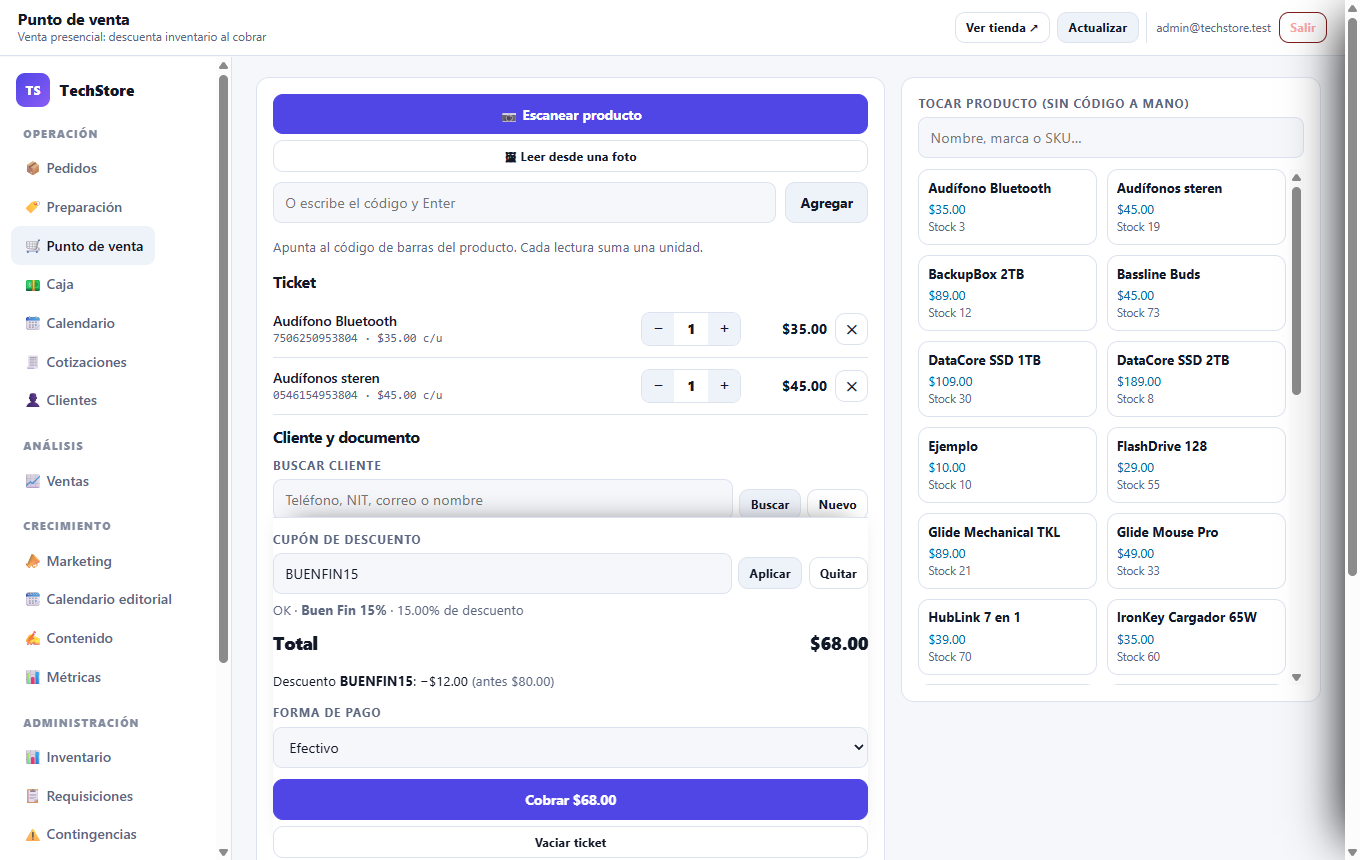
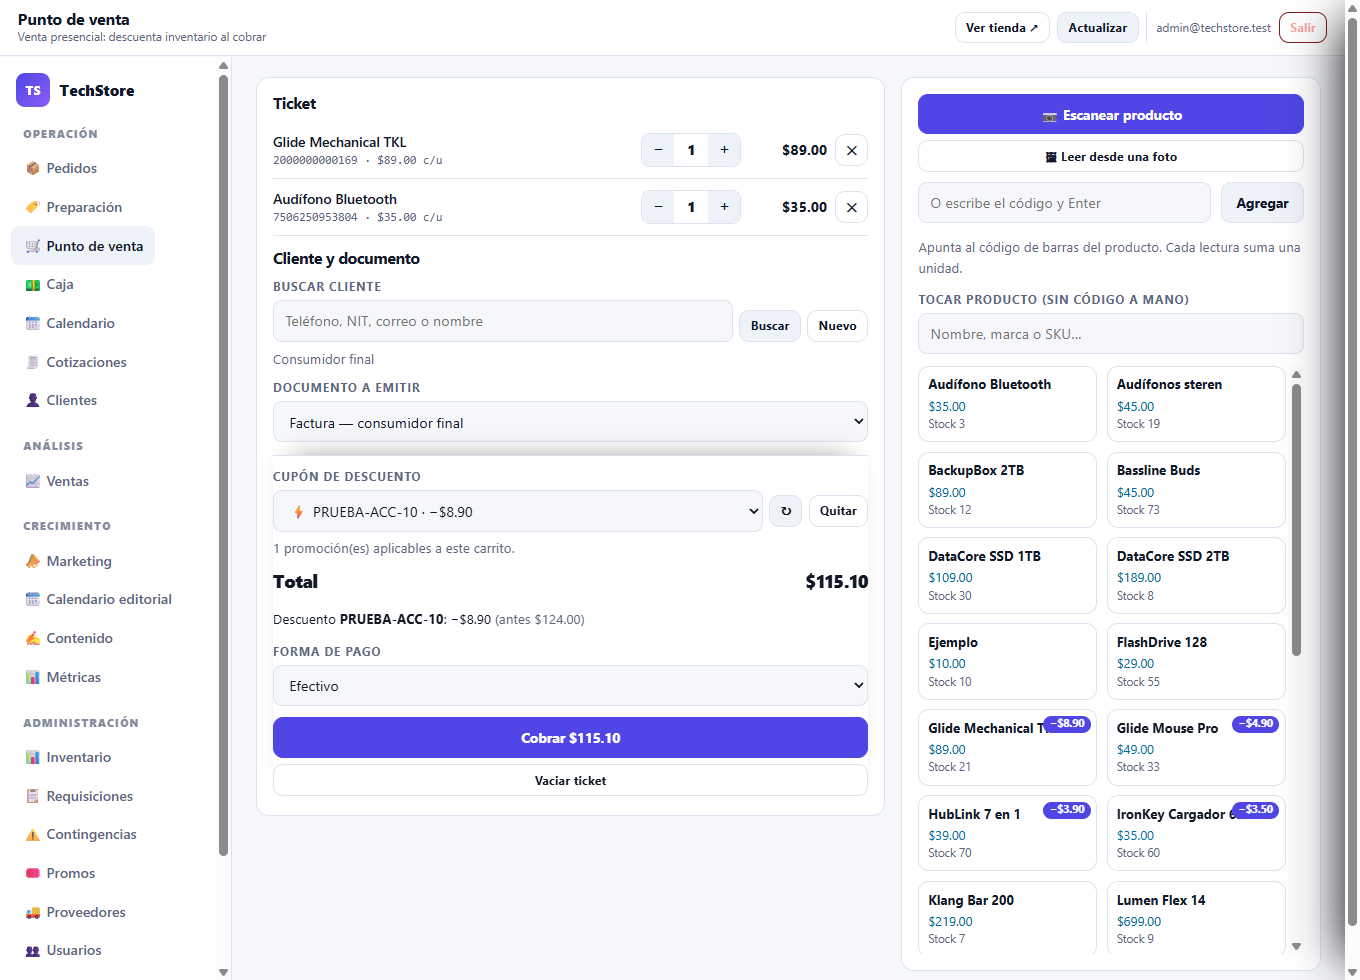
feat(promos): motor v2 con bloques, etiquetas y sin acumulacion
- Alcance por categorias completas (ts_promo_categories) ademas de productos
- Tipo 'auto': promo que se aplica sola y se muestra como etiqueta en la ficha
- Una promo por producto: el cupon se calcula solo sobre lineas libres
- ts_promo_options: desplegable del POS con solo los cupones que aplican
- v_product_promo: etiqueta de descuento por producto
- POS: lector y catalogo a la derecha, ticket y cobro a la izquierda

diff --git a/js/pos.js b/js/pos.js
@@ -18,6 +18,9 @@ let pendingScan = null; // resolve() de scanOnce(): lectura suelta para un formu
 let pendingStream = null; // lectura continua: { onCode, resolve }
 let customer = null; // cliente de mostrador elegido
 let promo = null; // { code, discount, label }
+let promoByProduct = {}; // promo automática por producto (etiquetas)
+let promoFingerprint = '';
+const autoDismissed = new Set(); // promos de producto que el cajero quitó a mano
 
 const $ = (s) => document.querySelector(s);
 
@@ -65,6 +68,9 @@ export function initPos(deps) {
   });
   $('#posClear').addEventListener('click', () => {
     cart = [];
+    promo = null;
+    promoFingerprint = '';
+    autoDismissed.clear();
     renderCart();
   });
   $('#posCharge').addEventListener('click', charge);
@@ -77,11 +83,13 @@ export function initPos(deps) {
     if (e.key === 'Enter') { e.preventDefault(); findCustomer(); }
   });
   document.getElementById('posCustomerNew')?.addEventListener('click', newCustomer);
-  document.getElementById('posPromoApply')?.addEventListener('click', applyPromo);
-  document.getElementById('posPromoClear')?.addEventListener('click', clearPromo);
-  document.getElementById('posPromo')?.addEventListener('keydown', (e) => {
-    if (e.key === 'Enter') { e.preventDefault(); applyPromo(); }
+  document.getElementById('posPromo')?.addEventListener('change', applyPromo);
+  document.getElementById('posPromoRefresh')?.addEventListener('click', () => {
+    promoFingerprint = '';
+    syncPromoOptions();
+    api.toast('Cupones recalculados');
   });
+  document.getElementById('posPromoClear')?.addEventListener('click', clearPromo);
 
   loadProducts();
 }
@@ -95,6 +103,9 @@ async function loadProducts() {
     .order('name');
   if (error) return api.toast(api.errMessage(error), 'err');
   products = data || [];
+  const { data: labels } = await api.sb.from('v_product_promo').select('product_id, promo');
+  promoByProduct = {};
+  (labels || []).forEach((r) => { promoByProduct[r.product_id] = r.promo; });
   renderProducts();
   renderCart();
 }
@@ -390,6 +401,7 @@ function renderCart() {
     : 'Cobrar, emitir e imprimir';
   const count = $('#scanCount');
   if (count) count.textContent = `${cartCount()} artículos · ${api.money(total())}`;
+  syncPromoOptions();
 }
 
 function renderProducts() {
@@ -407,6 +419,7 @@ function renderProducts() {
       .map(
         (p) => `
       <button class="pos-tile" data-pos-add="${p.id}" ${p.stock === 0 ? 'disabled' : ''}>
+        ${promoByProduct[p.id] ? `<span class="pos-tag">−${api.money(promoByProduct[p.id].discount)}</span>` : ''}
         <div class="n">${api.esc(p.name)}</div>
         <div class="p">${api.money(p.price)}</div>
         <div class="s">${p.stock === 0 ? 'Agotado' : `Stock ${p.stock}`}</div>
@@ -520,6 +533,8 @@ async function charge() {
   const usedPromo = promo?.code;
   cart = [];
   promo = null;
+  promoFingerprint = '';
+  autoDismissed.clear();
   customer = null;
   resetPosFields();
   await loadProducts();
@@ -644,15 +659,70 @@ function newCustomer() {
   };
 }
 
-async function applyPromo() {
-  const code = (document.getElementById('posPromo')?.value || '').trim();
+function promoItems() {
+  return cart.map((i) => ({ product_id: i.id, qty: i.qty, total: Number(i.price) * i.qty }));
+}
+
+async function syncPromoOptions() {
+  const sel = document.getElementById('posPromo');
   const hint = document.getElementById('posPromoHint');
-  if (!code) return api.toast('Escribe el codigo del cupon', 'err');
+  if (!sel) return;
+  const fp = cart.map((i) => `${i.id}x${i.qty}`).sort().join('|');
+  if (fp === promoFingerprint) return;
+  promoFingerprint = fp;
+
+  if (!cart.length) {
+    sel.innerHTML = '<option value="">— Cupones aplicables —</option>';
+    if (hint) hint.textContent = 'Agrega productos para ver qué cupones aplican.';
+    return;
+  }
+
+  const { data, error } = await api.sb.rpc('ts_promo_options', { p_items: promoItems(), p_uid: null });
+  if (error) return;
+  const opts = Array.isArray(data) ? data : [];
+
+  sel.innerHTML =
+    '<option value="">— Sin cupón —</option>' +
+    opts
+      .map(
+        (o) =>
+          `<option value="${o.code}" ${promo && promo.code === o.code ? 'selected' : ''}>${
+            o.auto ? '⚡ ' : ''
+          }${o.code} · −${api.money(o.discount)}</option>`
+      )
+      .join('');
+
+  const keep = promo && opts.some((o) => o.code === promo.code);
+  // la promo de producto se aplica sola, salvo que el cajero la haya quitado
+  const autoOpt = opts.find((o) => o.auto && !autoDismissed.has(o.code));
+  if (!keep && autoOpt) {
+    sel.value = autoOpt.code;
+    await applyPromo();
+    return;
+  }
+  if (!keep && promo) {
+    promo = null;
+    document.getElementById('posPromoClear').hidden = true;
+  }
+  if (hint) {
+    hint.textContent = opts.length
+      ? `${opts.length} promoción(es) aplicables a este carrito.`
+      : 'Ninguna promoción aplica a este carrito.';
+  }
+}
+
+async function applyPromo() {
+  const sel = document.getElementById('posPromo');
+  const code = (sel?.value || '').trim();
+  const hint = document.getElementById('posPromoHint');
+  if (!code) return clearPromo();
   if (!cart.length) return api.toast('Agrega productos antes del cupon', 'err');
 
-  const items = cart.map((i) => ({ product_id: i.id, qty: i.qty, total: Number(i.price) * i.qty }));
-  const { data, error } = await api.sb.rpc('ts_promo_check', { p_code: code, p_items: items });
-  if (error) { if (hint) hint.textContent = ''; return api.toast(api.errMessage(error), 'err'); }
+  const { data, error } = await api.sb.rpc('ts_promo_check', { p_code: code, p_items: promoItems() });
+  if (error) {
+    if (hint) hint.textContent = '';
+    return api.toast(api.errMessage(error), 'err');
+  }
   if (!data?.ok) {
     promo = null;
     if (hint) hint.textContent = '';
@@ -661,16 +731,29 @@ async function applyPromo() {
     return api.toast(data?.message || 'Ese cupon no aplica', 'err');
   }
 
-  promo = { code: data.code, discount: Number(data.discount), label: data.message };
-  if (hint) hint.innerHTML = 'OK · <b>' + api.esc(data.name) + '</b> · ' + api.esc(data.message);
+  promo = {
+    code: data.code,
+    discount: Number(data.discount),
+    label: data.message,
+    base: Number(data.base) || 0,
+    auto: !!data.auto,
+  };
+  if (hint) {
+    hint.innerHTML =
+      `OK · <b>${api.esc(data.name)}</b> · −${api.money(data.discount)} sobre ${api.money(data.base)}` +
+      (data.blocked?.length ? ` <span class="muted">· no acumula en ${data.blocked.length} línea(s)</span>` : '');
+  }
   document.getElementById('posPromoClear').hidden = false;
   renderCart();
 }
 
 function clearPromo() {
+  if (promo?.auto) autoDismissed.add(promo.code);
   promo = null;
-  document.getElementById('posPromo').value = '';
-  document.getElementById('posPromoHint').textContent = '';
+  const sel = document.getElementById('posPromo');
+  if (sel) sel.value = '';
+  const hint = document.getElementById('posPromoHint');
+  if (hint) hint.textContent = '';
   document.getElementById('posPromoClear').hidden = true;
   renderCart();
 }

diff --git a/admin.html b/admin.html
@@ -5,7 +5,7 @@
 <meta name="viewport" content="width=device-width, initial-scale=1">
 <title>Panel · TechStore SV</title>
 <link rel="icon" href="assets/favicon.svg">
-<link rel="stylesheet" href="css/admin.css?v=9aec7eea">
+<link rel="stylesheet" href="css/admin.css?v=9acecde5">
 </head>
 <body>
 
@@ -160,18 +160,8 @@
 
         <!-- izquierda: caja / ticket -->
         <div class="panel">
-          <div class="scan-actions">
-            <button class="btn primary block" id="posScanBtn">📷 Escanear producto</button>
-            <button class="btn ghost block sm" id="posPhotoBtn" style="margin-top:.4rem">🖼 Leer desde una foto</button>
-            <input type="file" id="posPhotoInput" accept="image/*" capture="environment" hidden>
-            <div class="row" style="margin-top:.6rem">
-              <input id="posCodeInput" placeholder="O escribe el código y Enter" inputmode="numeric" autocomplete="off">
-              <button class="btn" id="posCodeAdd">Agregar</button>
-            </div>
-            <p class="small muted" id="posScanHint">Apunta al código de barras del producto. Cada lectura suma una unidad.</p>
-          </div>
 
-          <h3 style="margin-top:1rem">Ticket</h3>
+          <h3>Ticket</h3>
           <div id="posLines"></div>
           <p class="small muted" id="posEmpty">Sin productos. Escanea el primero.</p>
 
@@ -212,11 +202,11 @@
             <div class="field">
               <label for="posPromo">Cupón de descuento</label>
               <div class="row" style="gap:.4rem">
-                <input id="posPromo" placeholder="Ej: BUENFIN15" style="flex:1" autocomplete="off">
-                <button class="btn sm" id="posPromoApply">Aplicar</button>
+                <select id="posPromo" style="flex:1"><option value="">— Cupones aplicables —</option></select>
+                <button class="btn sm" id="posPromoRefresh" title="Recalcular cupones">↻</button>
                 <button class="btn sm ghost" id="posPromoClear" hidden>Quitar</button>
               </div>
-              <span class="small muted" id="posPromoHint"></span>
+              <span class="small muted" id="posPromoHint">Agrega productos para ver qué cupones aplican.</span>
             </div>
 
             <div class="pos-total"><span>Total</span><span id="posTotal">$0.00</span></div>
@@ -247,7 +237,18 @@
 
         <!-- derecha: catálogo rápido -->
         <div class="panel">
-          <div class="field">
+                        <div class="scan-actions">
+                <button class="btn primary block" id="posScanBtn">📷 Escanear producto</button>
+                <button class="btn ghost block sm" id="posPhotoBtn" style="margin-top:.4rem">🖼 Leer desde una foto</button>
+                <input type="file" id="posPhotoInput" accept="image/*" capture="environment" hidden>
+                <div class="row" style="margin-top:.6rem">
+                  <input id="posCodeInput" placeholder="O escribe el código y Enter" inputmode="numeric" autocomplete="off">
+                  <button class="btn" id="posCodeAdd">Agregar</button>
+                </div>
+                <p class="small muted" id="posScanHint">Apunta al código de barras del producto. Cada lectura suma una unidad.</p>
+              </div>
+
+<div class="field">
             <label for="posSearch">Tocar producto (sin código a mano)</label>
             <input id="posSearch" placeholder="Nombre, marca o SKU…">
           </div>

diff --git a/js/admin.js b/js/admin.js
@@ -1,6 +1,6 @@
 /* admin.js — shell del panel: pedidos, preparación e inventario */
 import { sb, money, esc, toast, fmtDate, errMessage, STATUS_LABEL, getUser, loadCurrency, loadTheme, applyTheme, getCurrency, openDrawerUI, closeDrawerUI, initDrawerDismiss } from './core.js?v=3b15e8e6';
-import { initPos, scanOnce, scanStream, stopScan, scanFeedback } from './pos.js?v=5b5157be';
+import { initPos, scanOnce, scanStream, stopScan, scanFeedback } from './pos.js?v=fffb9375';
 import { Scanner } from './scanner.js?v=90ef2e67';
 import { initMarketing, loadMarketing, renderMarketing, renderEditorial, renderContent, renderMetrics } from './marketing.js?v=7ad6e894';
 import { initRequisitions, loadRequisitions, renderRequisitions } from './requisitions.js?v=08a54485';

diff --git a/css/admin.css b/css/admin.css
@@ -298,6 +298,13 @@ th.sortable[data-dir]:not([data-dir=""])::after{content:attr(data-dir);margin-le
 .theme-prev .tp-row{display:flex;gap:.3rem;align-items:center}
 .theme-prev .tp-card{flex:1;height:26px;border-radius:6px}
 .theme-prev .tp-btn{height:14px;width:44px;border-radius:4px}
+/* ---------- POS: etiqueta de promo en la ficha ---------- */
+.pos-tag{
+  position:absolute;top:.35rem;right:.35rem;font-size:.66rem;font-weight:700;
+  background:var(--accent);color:#fff;border-radius:999px;padding:.1rem .4rem;line-height:1.3
+}
+.pos-tile{position:relative}
+
 /* ---------- POS: bloque de cobro siempre visible ---------- */
 .pos-paybox{
   position:sticky;bottom:-1px;z-index:4;margin-top:.8rem;

diff --git a/cotizacion.html b/cotizacion.html
@@ -4,7 +4,7 @@
 <meta charset="utf-8">
 <meta name="viewport" content="width=device-width, initial-scale=1">
 <title>Cotización · TechStore</title>
-<link rel="stylesheet" href="css/admin.css?v=9aec7eea">
+<link rel="stylesheet" href="css/admin.css?v=9acecde5">
 <style>
   body{background:#e5e7eb;color:#000}
   .doc{background:#fff;max-width:760px;margin:1.5rem auto;padding:28px 32px;border-radius:6px;box-shadow:0 10px 30px -14px rgba(0,0,0,.4)}

diff --git a/product-label.html b/product-label.html
@@ -4,7 +4,7 @@
 <meta charset="utf-8">
 <meta name="viewport" content="width=device-width, initial-scale=1">
 <title>Etiqueta de producto · TechStore</title>
-<link rel="stylesheet" href="css/admin.css?v=9aec7eea">
+<link rel="stylesheet" href="css/admin.css?v=9acecde5">
 <style>
   body{background:#e5e7eb;color:#000}
   .sheet-wrap{max-width:420px;margin:1.5rem auto;padding:0 1rem}

diff --git a/sticker.html b/sticker.html
@@ -4,7 +4,7 @@
 <meta charset="utf-8">
 <meta name="viewport" content="width=device-width, initial-scale=1">
 <title>Etiqueta de pedido · TechStore</title>
-<link rel="stylesheet" href="css/admin.css?v=9aec7eea">
+<link rel="stylesheet" href="css/admin.css?v=9acecde5">
 <style>
   body{background:#e5e7eb;color:#000}
   .sheet-wrap{max-width:420px;margin:1.5rem auto;padding:0 1rem}

diff --git a/README.md b/README.md
@@ -101,6 +101,34 @@ abrir (fondo) → vender en POS → ingresos / egresos / retiros → cerrar (arq
 - El cierre guarda el **conteo por denominación** (de $100 a 1¢) y la diferencia; queda en el historial con el nombre de quién abrió el turno.
 - El cobro exige caja abierta **en el servidor**, no solo en la pantalla: una llamada directa a `ts_confirm_payment` para un pedido POS sin turno devuelve error y el pedido sigue pendiente.
 
+## Motor de promociones
+
+Una promo tiene **tipo** (`kind`) y **alcance** (`scope`):
+
+| kind | Qué hace |
+|---|---|
+| `cupon` | requiere código en el checkout o en la caja |
+| `bienvenida` | automática para la primera compra de una cuenta |
+| `auto` | se aplica sola al producto, **sin código**; se muestra con etiqueta |
+
+| scope | Alcance |
+|---|---|
+| `all` | todo el catálogo |
+| `products` | productos marcados (`ts_promo_products`) |
+| `categories` | **bloques/categorías** completas (`ts_promo_categories`) |
+
+Reglas del motor:
+
+- **Una promo por producto.** Nunca se acumulan dos descuentos sobre la misma línea: si el producto ya tiene promo propia, el cupón se calcula solo sobre las líneas libres y el POS avisa cuántas quedaron fuera.
+- **La etiqueta manda.** `v_product_promo` devuelve la mejor promo automática de cada producto; la tienda y el POS la muestran como precio rebajado (píldora `−$8.90`).
+- **El desplegable del POS no es una lista fija.** `ts_promo_options(carrito, cliente)` devuelve solo los cupones que **de verdad** aplican a ese carrito y a ese cliente (vigencia, tope, compra mínima, alcance y si ya usó el de bienvenida), ordenados por descuento.
+- **El monto siempre lo calcula el servidor** (`ts_promo_eval`), por línea; el navegador solo lo muestra.
+- Las promos `auto` se aplican solas en la caja: aparecen con ⚡ en el desplegable y el cajero puede quitarlas.
+
+**Límite conocido:** si un carrito tiene **dos promos `auto` distintas**, solo se aplica una (la de mayor descuento), porque `ts_place_order` recibe un único código. Sumar descuentos automáticos por línea requiere cambiar esa función; está pendiente.
+
+Verificado: carrito de $124.00 (teclado $89 con promo de accesorios + audífono $35) → descuento $8.90 → **cobro real $115.10** (`TEC-001021`).
+
 ## Cómo funciona el punto de venta de sala
 
 ```
